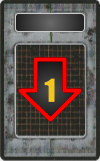
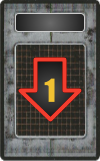
Fixed background texture

Changed region(s): [[0.18, 0.3416, 0.81, 0.7764]]

diff --git a/src/main/java/no/uib/inf112/core/ui/UIHandler.java b/src/main/java/no/uib/inf112/core/ui/UIHandler.java
@@ -67,11 +67,11 @@ public class UIHandler implements Disposable {
         //temp textures, to be replaced with real textures
         //TODO Issue #52 find/create real textures for control panel
 
-        UI_BACKGROUND_TEXTURE = new TextureRegion(new Texture("art/tiles.png"), 1, 1);
+        UI_BACKGROUND_TEXTURE = new TextureRegion(new Texture("ui/background.png"), 600, 190);
 
 
         // CARDS_TEXTURE = new TextureRegion(new Texture("ui/cardSkin.png"), 100, 161);
-        CARDS_SLOT_TEXTURE = createTempRectTexture(100, 161, Color.LIGHT_GRAY);
+        CARDS_SLOT_TEXTURE = new TextureRegion(new Texture("ui/emptySlot.png"));
         MOVE1_TEXTURE = new TextureRegion(new Texture("ui/move1.png"));
         MOVE2_TEXTURE = new TextureRegion(new Texture("ui/move2.png"));
         MOVE3_TEXTURE = new TextureRegion(new Texture("ui/move3.png"));
@@ -80,6 +80,7 @@ public class UIHandler implements Disposable {
         TURN_RIGHT_TEXTURE = new TextureRegion(new Texture("ui/turnRight.png"));
         U_TURN_TEXTURE = new TextureRegion(new Texture("ui/uTurn.png"));
 
+        //UI_BACKGROUND_TEXTURE = createTempRectTexture(1, 1, new Color(0.2f, 0.2f, 0.2f, 0.9f));
         //UI_BACKGROUND_TEXTURE = createTempRectTexture(1, 1, new Color(0.145f, 0.145f, 0.145f, 0.9f));
         //CARDS_TEXTURE = createTempRectTexture(100, 161, Color.BLUE); //make sure the card are golden ratios (ish)
 

diff --git a/src/main/java/no/uib/inf112/core/ui/actors/cards/CardActor.java b/src/main/java/no/uib/inf112/core/ui/actors/cards/CardActor.java
@@ -40,7 +40,9 @@ public class CardActor extends ImageTextButton {
 
             String[] movement = card.getAction().toString().split(" ");
             String movementWithNewline = movement[0] + "\n" + movement[1];
-            setText("        " + card.getPriority() + "\n\n\n\n\n\n");// + movementWithNewline + "\n\n");
+
+            // TODO fix this, this is ugly
+            setText(card.getPriority() + "\n\n\n\n\n\n");// + movementWithNewline + "\n\n");
             getStyle().imageUp = new TextureRegionDrawable(card.getRegionTexture());
             getLabelCell().padLeft(-card.getRegionTexture().getRegionWidth()); //make sure the text is within the card
         }
